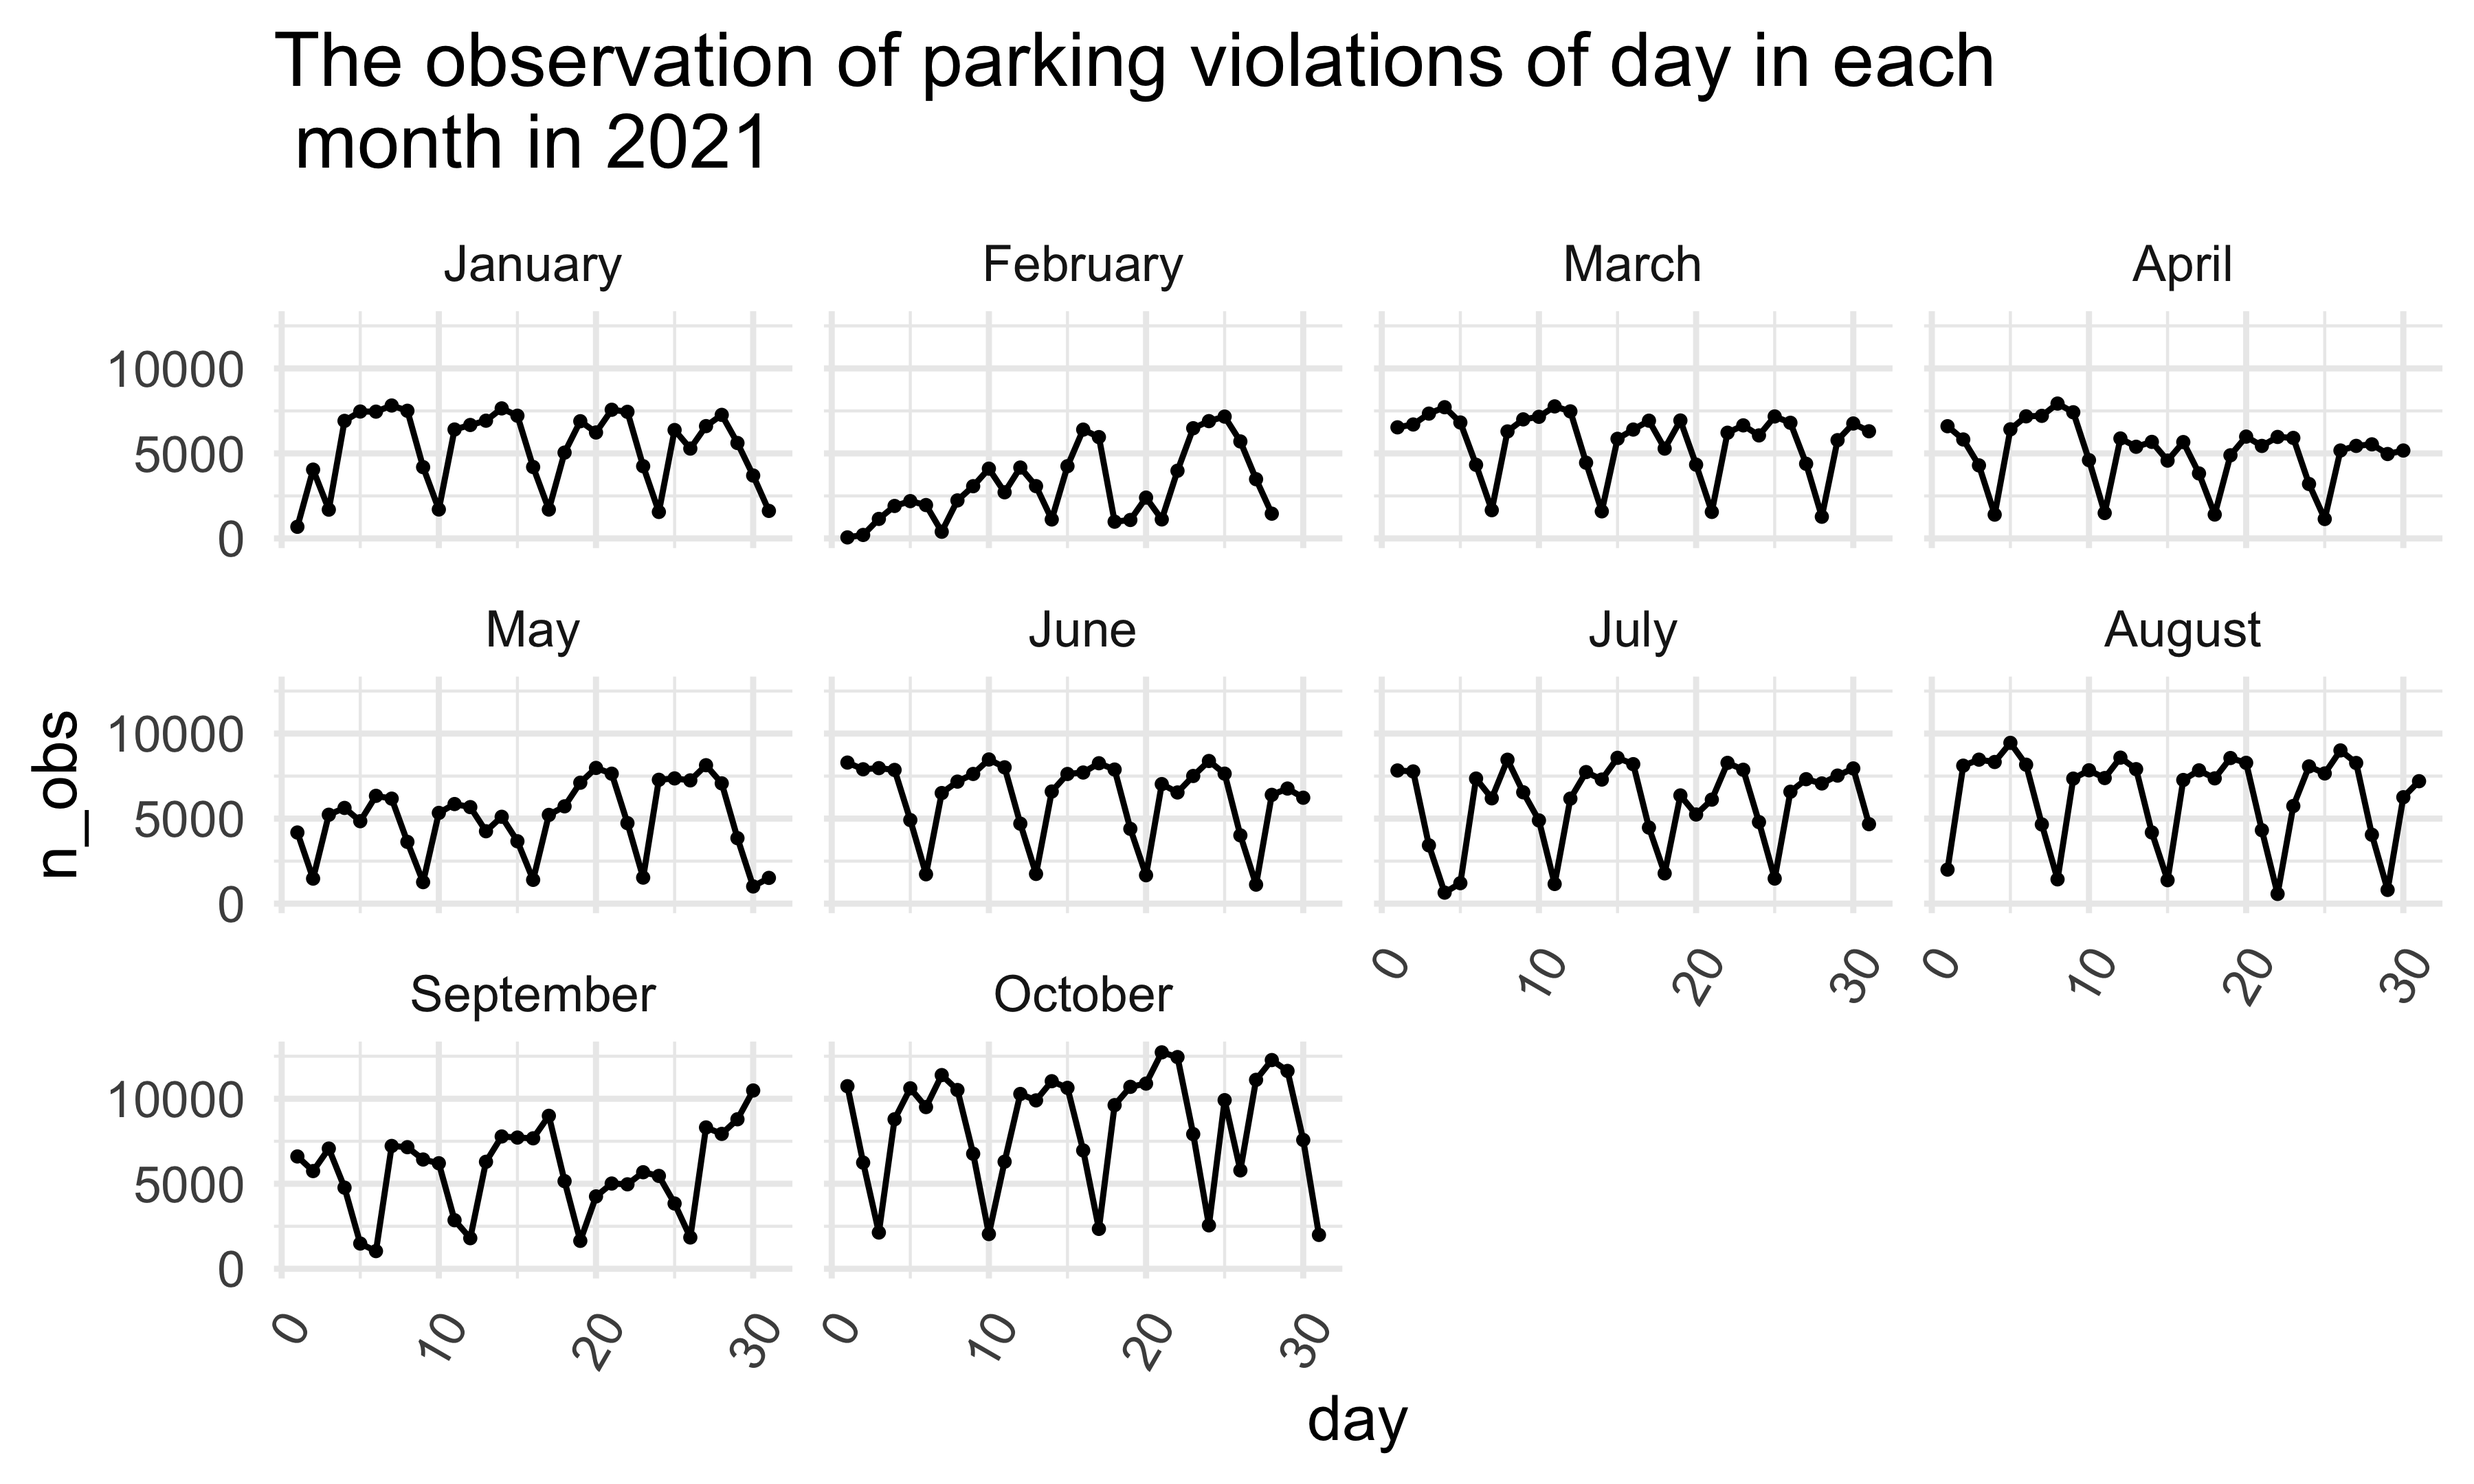
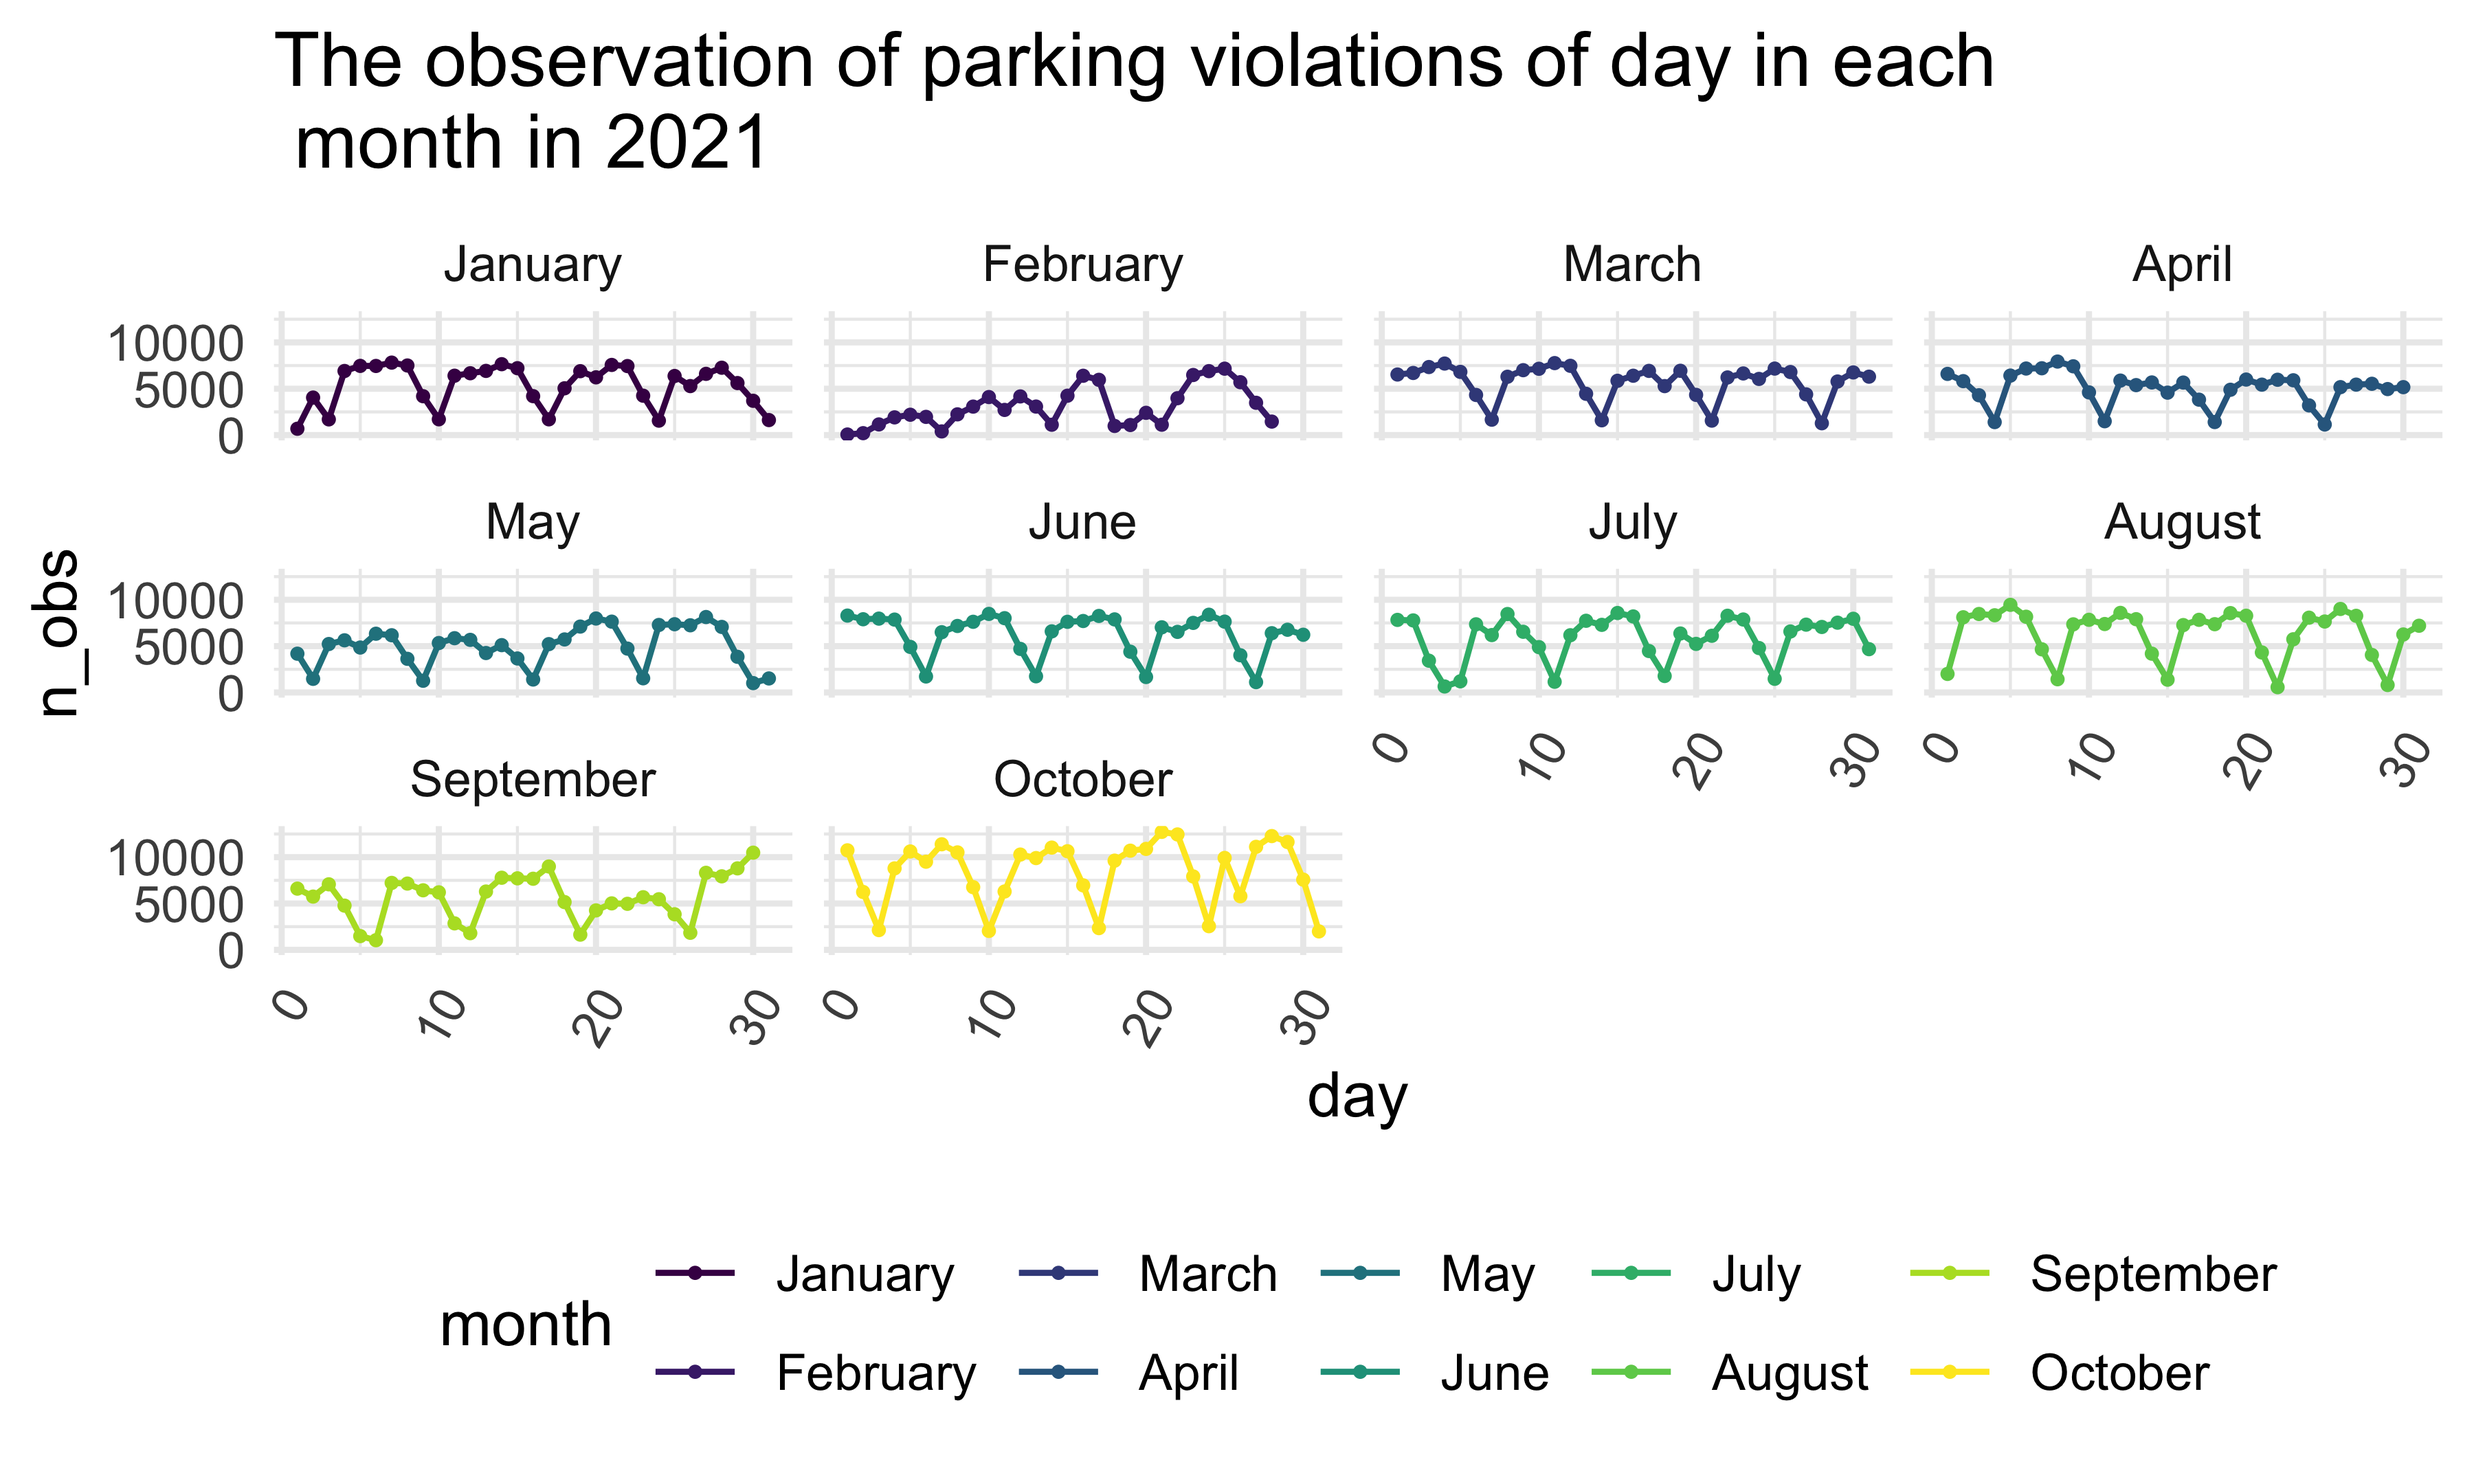
timeline update.

diff --git a/timeline-part.html b/timeline-part.html
@@ -385,7 +385,7 @@ div.tocify {
   relocate(month) %&gt;%
   group_by(borough, month) %&gt;%
   summarize(n_obs = n()) %&gt;%
-  ggplot(aes(x = month, y = n_obs, group = 1)) + 
+  ggplot(aes(x = month, y = n_obs, group = 1, color = borough)) + 
   geom_point() + geom_line() + 
   theme(axis.text.x = element_text(angle = 60, hjust = 1, size = 5) ) +
   labs(title = &quot;The observation of parking violations of each month \n in 2021 for each borough&quot;) + facet_wrap(~ borough, nrow = 1)</code></pre>
@@ -398,7 +398,7 @@ div.tocify {
   relocate(month) %&gt;%
   group_by(month, day) %&gt;%
   summarize(n_obs = n()) %&gt;%
-  ggplot(aes(x = day, y = n_obs, group = 1)) + 
+  ggplot(aes(x = day, y = n_obs, group = 1, color = month)) + 
   geom_point(size = 0.5) + geom_line() + 
   theme(axis.text.x = element_text(angle = 60, hjust = 1) ) +
   labs(title = &quot;The observation of parking violations of day in each \n month in 2021&quot;) + facet_wrap(~ month, nrow = 3)</code></pre>
@@ -410,7 +410,7 @@ div.tocify {
   relocate(weekday) %&gt;%
   group_by(borough, weekday) %&gt;%
   summarize(n_obs = n()) %&gt;%
-  ggplot(aes(x = weekday, y = n_obs, group = 1)) + 
+  ggplot(aes(x = weekday, y = n_obs, group = 1, color = borough)) + 
   geom_point() + geom_line() + 
   theme(axis.text.x = element_text(angle = 60, hjust = 1) ) + 
   facet_wrap(~ borough, nrow = 1) +
@@ -422,84 +422,11 @@ div.tocify {
   group_by(borough, hour) %&gt;%
   summarize(n_obs = n()) %&gt;%
   filter(hour &lt;= 24) %&gt;%
-  ggplot(aes(x = hour, y = n_obs)) + geom_point() + geom_line() +
+  ggplot(aes(x = hour, y = n_obs, color = borough)) + geom_point() + geom_line() +
   labs(title = &quot;The total number of violations during 24 hours \n of a day in 2021 for each borough&quot;) +
   facet_wrap(~ borough, nrow = 2) </code></pre>
 <p><img src="timeline-part_files/figure-html/unnamed-chunk-5-1.png" width="90%" /></p>
 <p>Furthermore, we also try to explore the 24-hour violation pattern within a day. From the above plot, all boroughs also show a similar daily pattern. The number of violations tends to increase from 6:00 AM to 8:00 AM, remain high in 8:00 AM to 2:00 PM, decrease from 2:00PM to 7:00 PM, and remain low from 7:00 PM to 5:00 AM.</p>
-</div>
-<div id="one-way-anova-test-for-weekday-and-violation-counts" class="section level4">
-<h4>One-way anova test for weekday and violation counts</h4>
-<pre class="r"><code>fit_df = violation %&gt;%
-  mutate(month = as.factor(month)) %&gt;%
-  group_by(month, weekday, day) %&gt;%
-  summarize(n_obs = n())
-
-fit_model_weekday = lm(n_obs ~ weekday, data = fit_df)
-anova(fit_model_weekday) %&gt;% knitr::kable()</code></pre>
-<table>
-<thead>
-<tr class="header">
-<th align="left"></th>
-<th align="right">Df</th>
-<th align="right">Sum Sq</th>
-<th align="right">Mean Sq</th>
-<th align="right">F value</th>
-<th align="right">Pr(&gt;F)</th>
-</tr>
-</thead>
-<tbody>
-<tr class="odd">
-<td align="left">weekday</td>
-<td align="right">6</td>
-<td align="right">1188117175</td>
-<td align="right">198019529</td>
-<td align="right">60.08402</td>
-<td align="right">0</td>
-</tr>
-<tr class="even">
-<td align="left">Residuals</td>
-<td align="right">297</td>
-<td align="right">978825984</td>
-<td align="right">3295710</td>
-<td align="right">NA</td>
-<td align="right">NA</td>
-</tr>
-</tbody>
-</table>
-<pre class="r"><code>fit_model_month = lm(n_obs ~ month, data = fit_df)
-anova(fit_model_month) %&gt;% knitr::kable()</code></pre>
-<table>
-<thead>
-<tr class="header">
-<th align="left"></th>
-<th align="right">Df</th>
-<th align="right">Sum Sq</th>
-<th align="right">Mean Sq</th>
-<th align="right">F value</th>
-<th align="right">Pr(&gt;F)</th>
-</tr>
-</thead>
-<tbody>
-<tr class="odd">
-<td align="left">month</td>
-<td align="right">9</td>
-<td align="right">494640293</td>
-<td align="right">54960033</td>
-<td align="right">9.662275</td>
-<td align="right">0</td>
-</tr>
-<tr class="even">
-<td align="left">Residuals</td>
-<td align="right">294</td>
-<td align="right">1672302865</td>
-<td align="right">5688105</td>
-<td align="right">NA</td>
-<td align="right">NA</td>
-</tr>
-</tbody>
-</table>
-<p>In order to go more about the how month and weekday are associated with the frequency of parking violation. We try to use one-way anova test for weekday and month. From the above results, both the p-values are 0, so we can say that the parking violation counts are associated with month and weekday.</p>
 </div>
 
 
